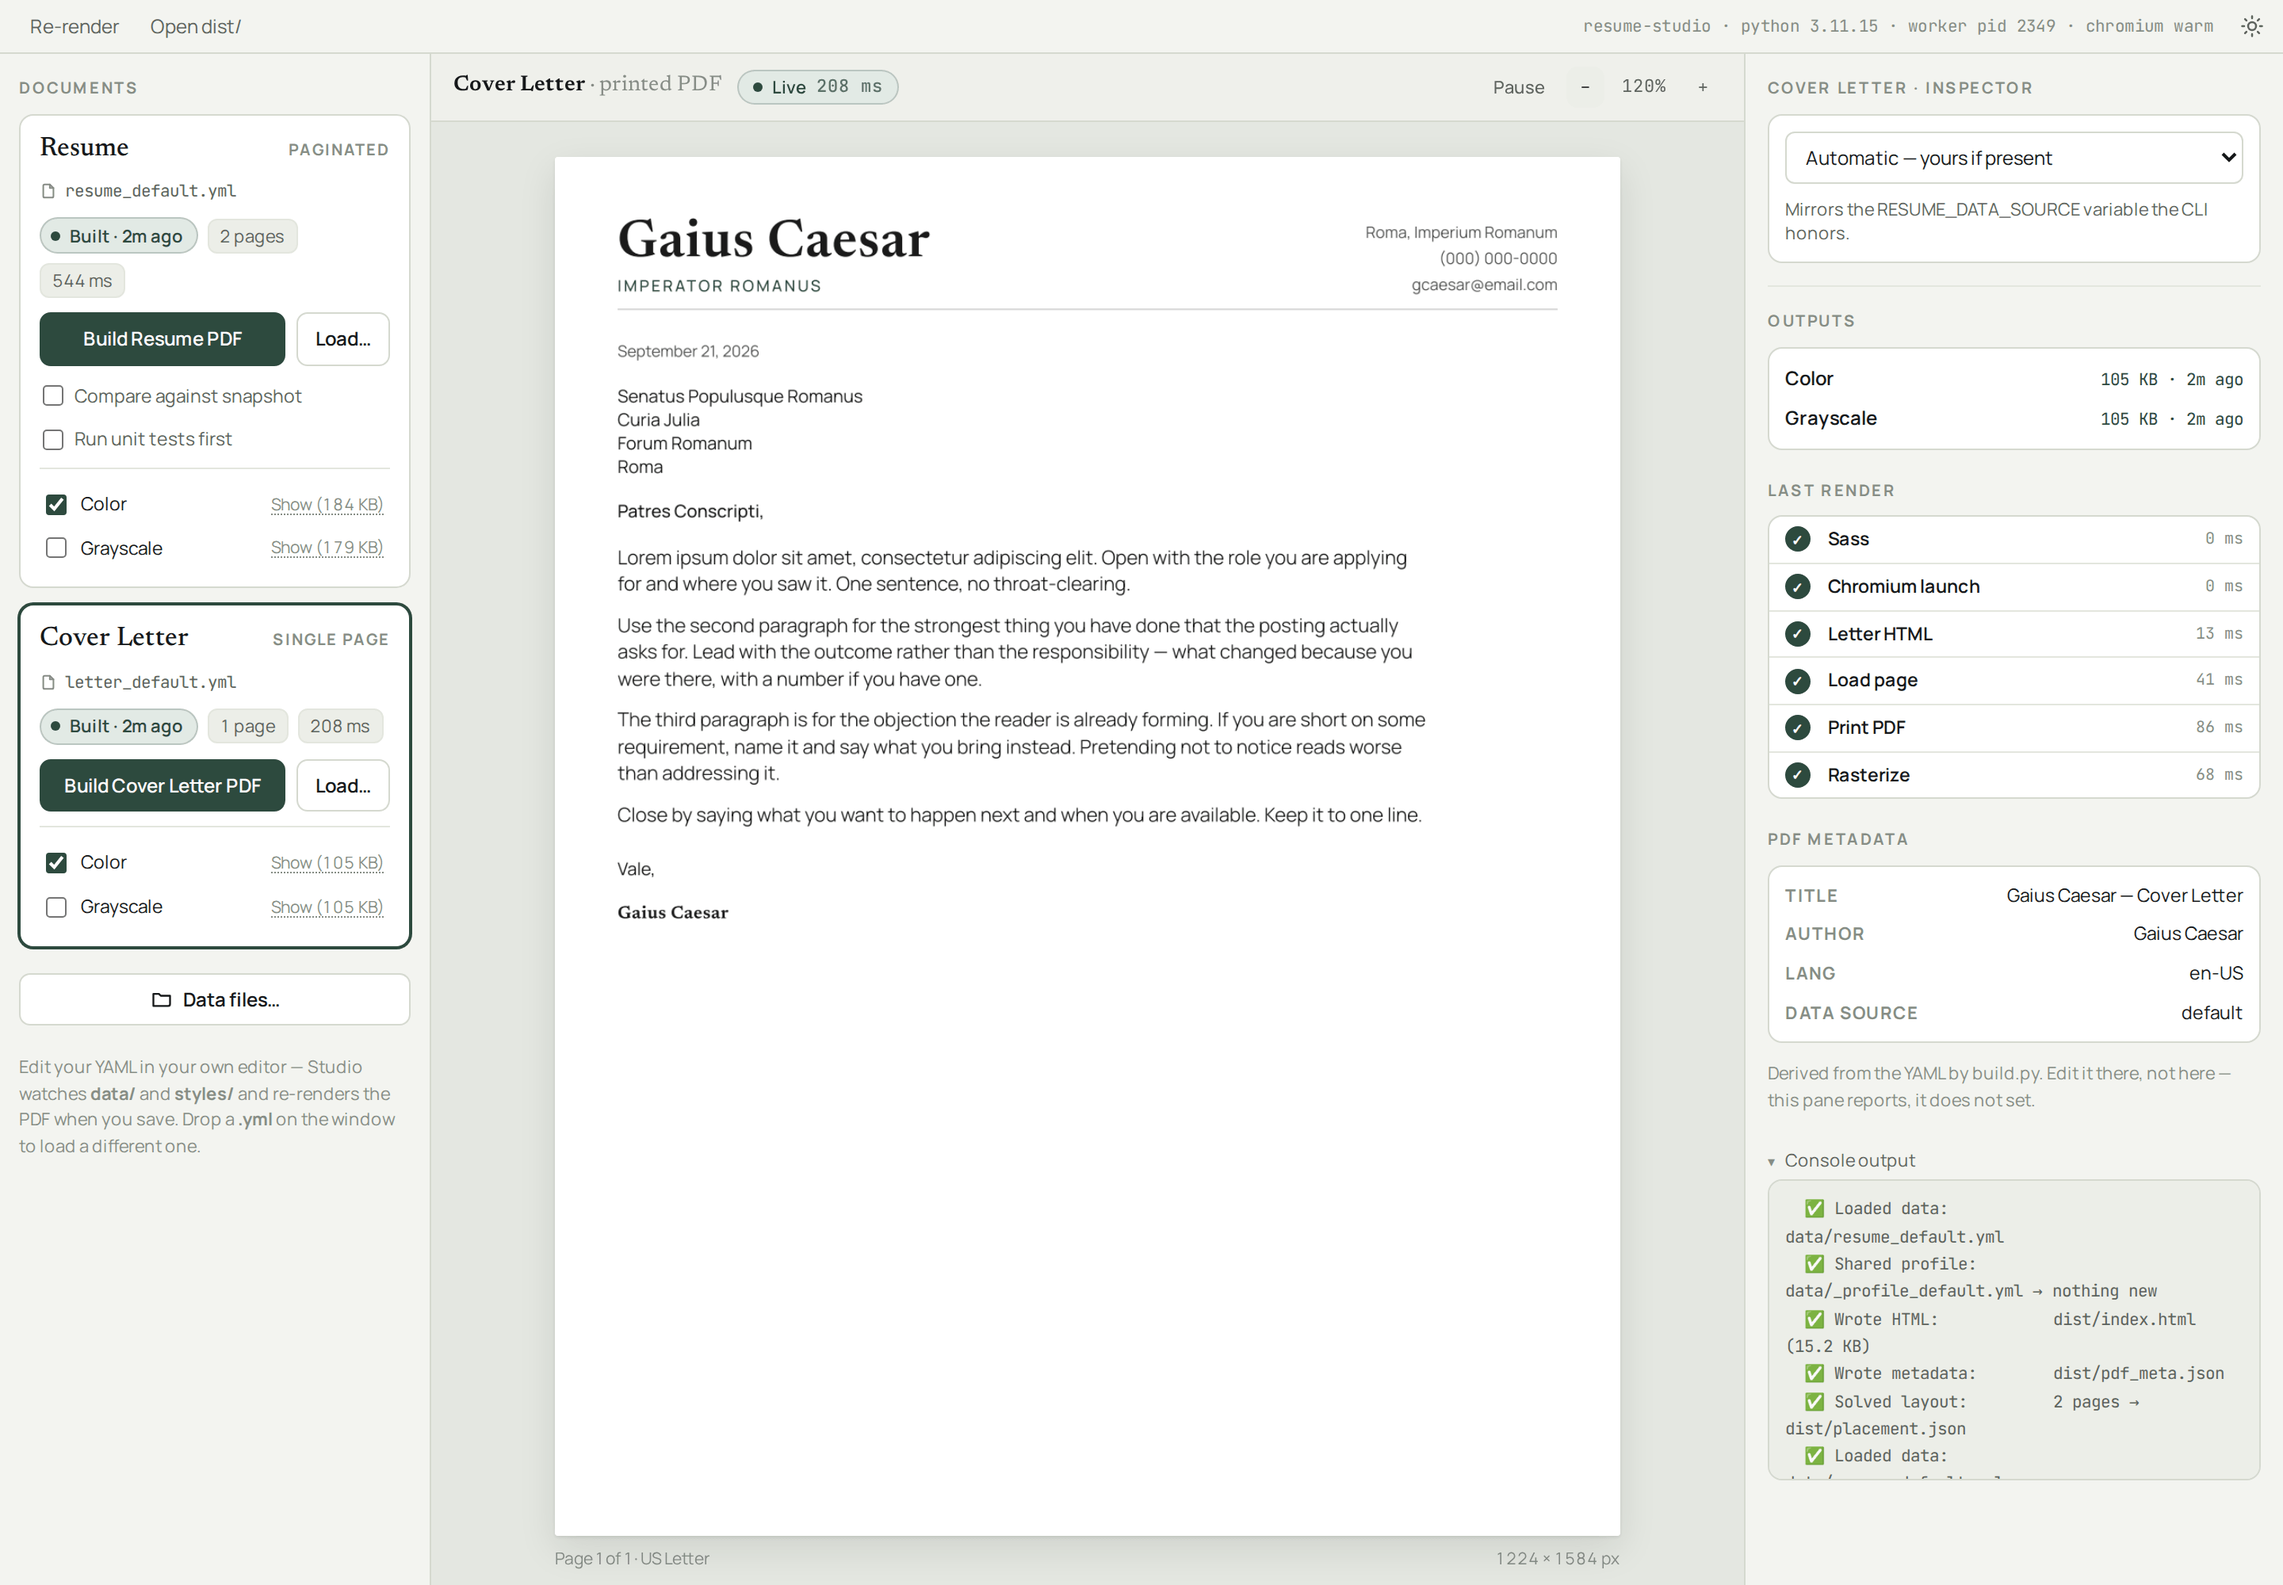
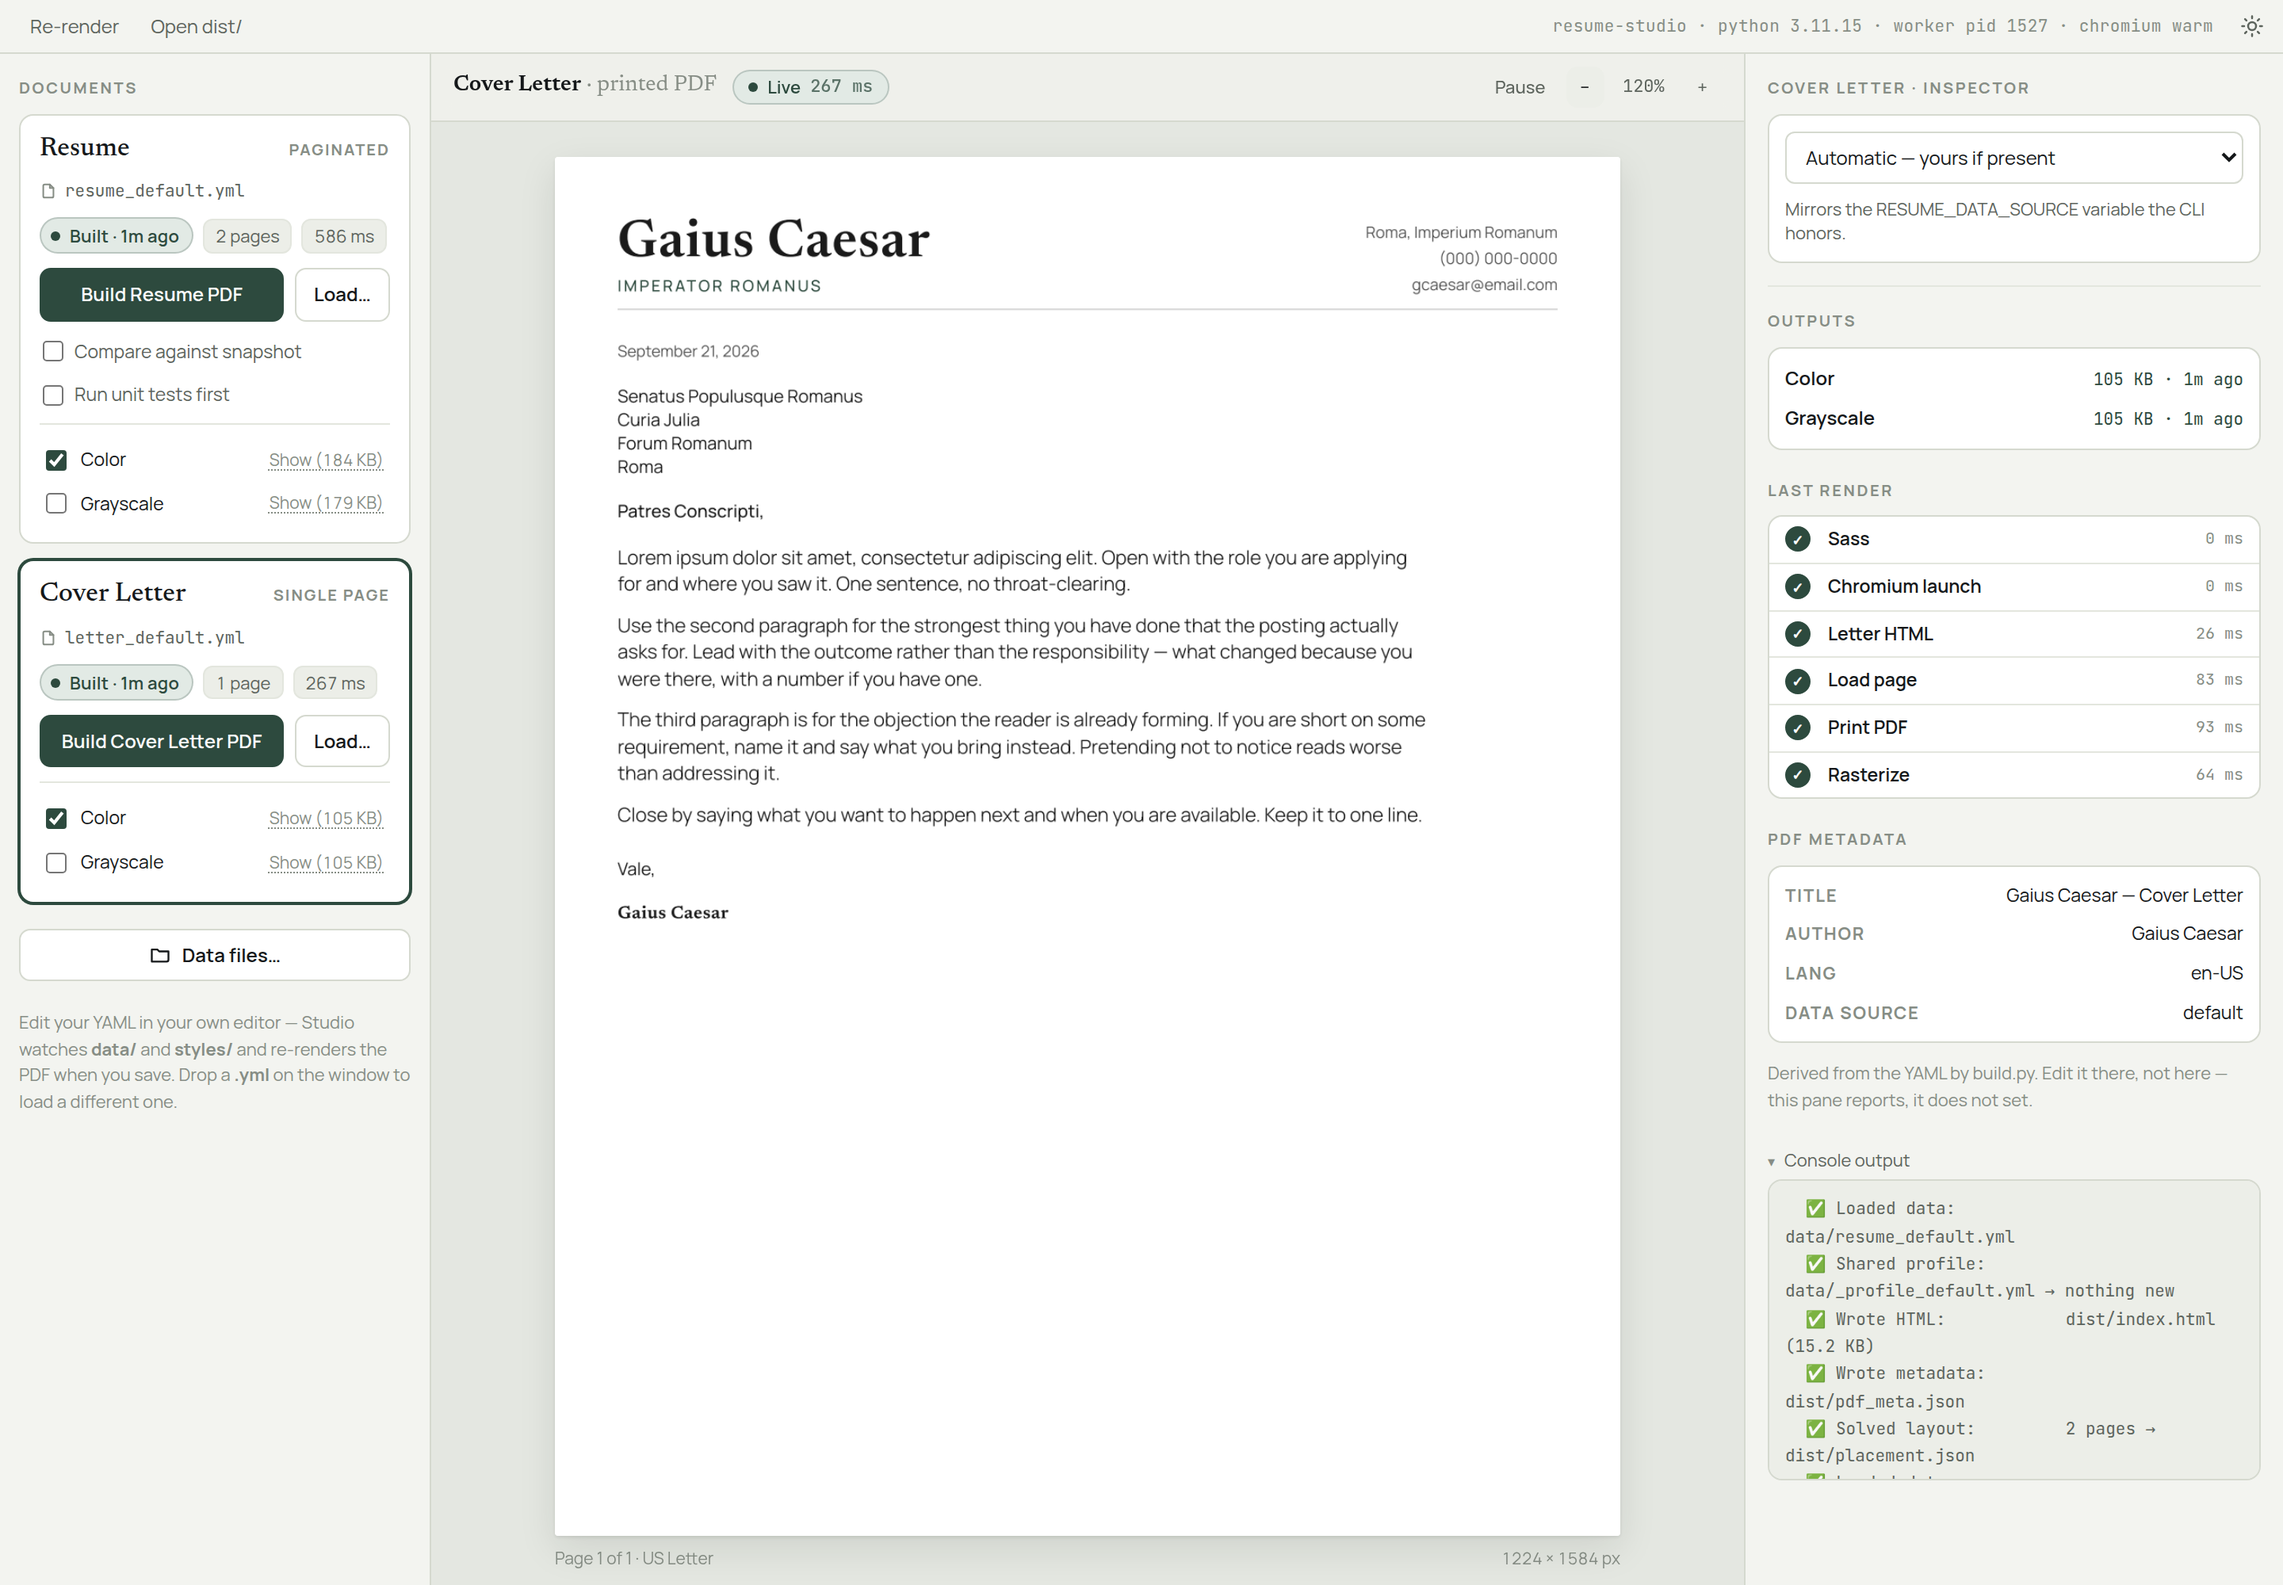
Add GitHub Actions tests and dark-theme README screenshots

diff --git a/README.md b/README.md
@@ -1,5 +1,9 @@
 # Resume Studio
 
+[![Tests](https://github.com/Vesselchuck/resume-studio/actions/workflows/tests.yml/badge.svg)](https://github.com/Vesselchuck/resume-studio/actions/workflows/tests.yml)
+[![Latest release](https://img.shields.io/github/v/release/Vesselchuck/resume-studio)](https://github.com/Vesselchuck/resume-studio/releases/latest)
+[![License: MIT](https://img.shields.io/github/license/Vesselchuck/resume-studio)](LICENSE)
+
 Single-source-of-truth resume and cover letter pipeline. Edit YAML, get a pixel-faithful
 US Letter PDF in two variants (full-color and grayscale). Page
 placement is computed automatically — no manual page-break management.
@@ -15,7 +19,10 @@ There is a desktop app too, the Studio, which shows the real
 printed PDF as you type. See "The Studio app" below, or just run
 `npm run studio`.
 
-![The resume (two pages) and the cover letter, built from the shipped placeholder data](docs/screenshots/documents.png)
+<picture>
+  <source media="(prefers-color-scheme: dark)" srcset="docs/screenshots/documents-dark.png">
+  <img alt="The resume (two pages) and the cover letter, built from the shipped placeholder data" src="docs/screenshots/documents.png">
+</picture>
 
 <picture>
   <source media="(prefers-color-scheme: dark)" srcset="docs/screenshots/studio-dark.png">
@@ -427,7 +434,10 @@ From the command line, both variants are built unless
 `RESUME_VARIANTS` says otherwise (`RESUME_VARIANTS=color` for color
 only). The app builds only the color variant until you tick Grayscale.
 
-![Page 1 in color and in grayscale](docs/screenshots/color-and-grayscale.png)
+<picture>
+  <source media="(prefers-color-scheme: dark)" srcset="docs/screenshots/color-and-grayscale-dark.png">
+  <img alt="Page 1 in color and in grayscale" src="docs/screenshots/color-and-grayscale.png">
+</picture>
 
 All of `dist/` is gitignored.
 
@@ -435,6 +445,10 @@ All of `dist/` is gitignored.
 
 ```
 .
+├── .github/workflows/
+│   └── tests.yml             Builds both documents from the templates and
+│                             runs npm test on GitHub for every push.
+├── .gitattributes            Line endings: LF, CRLF for .bat, binaries untouched.
 ├── .gitignore                Ignores dist/, node_modules/, __pycache__/,
 │                             tests/fixtures/diff_*.png, and the local
 │                             data file + its private fixtures.
@@ -777,7 +791,10 @@ A three-pane window: your documents on the left, the **real printed
 PDF** in the middle, an inspector on the right. Edit the YAML in
 whatever editor you like and the pane follows.
 
-![The Studio with the cover letter selected](docs/screenshots/studio-letter.png)
+<picture>
+  <source media="(prefers-color-scheme: dark)" srcset="docs/screenshots/studio-letter-dark.png">
+  <img alt="The Studio with the cover letter selected" src="docs/screenshots/studio-letter.png">
+</picture>
 
 The preview is not a screenshot of the HTML. It prints a real PDF,
 crops it through `crop_pdf.py`, and rasterizes the cropped file with

diff --git a/CHANGELOG.md b/CHANGELOG.md
@@ -41,6 +41,20 @@ is gone, **Fixed** for bugs, **Security** for what used to be exposed.
 
 ---
 
+## [Unreleased]
+
+- **Added.** Tests run on GitHub (GitHub Actions) on every push to `main`
+  and every pull request: the workflow builds the resume and the cover
+  letter from the shipped templates and runs `npm test`. The README
+  shows the result as a badge, next to the latest release and the
+  license.
+- **Changed.** The README's screenshots of the documents, of color and
+  grayscale pages, and of the Studio with the cover letter selected now
+  switch with GitHub's light and dark theme, as the main Studio
+  screenshot already did.
+
+---
+
 ## [0.6.0] — 2026-09-20
 
 *Breaking: `node render.js` is gone, your data file and the
@@ -595,6 +609,7 @@ the old names can still be followed.
 | 0.5.1 | the May snapshot | the page-number footer |
 | 0.6.0 | — | breaking: `render.js` removed, files renamed |
 
+[Unreleased]: #unreleased
 [0.6.0]: #060--2026-09-20
 [0.5.1]: #051--2026-05-16
 [0.5.0]: #050--2026-05-16
